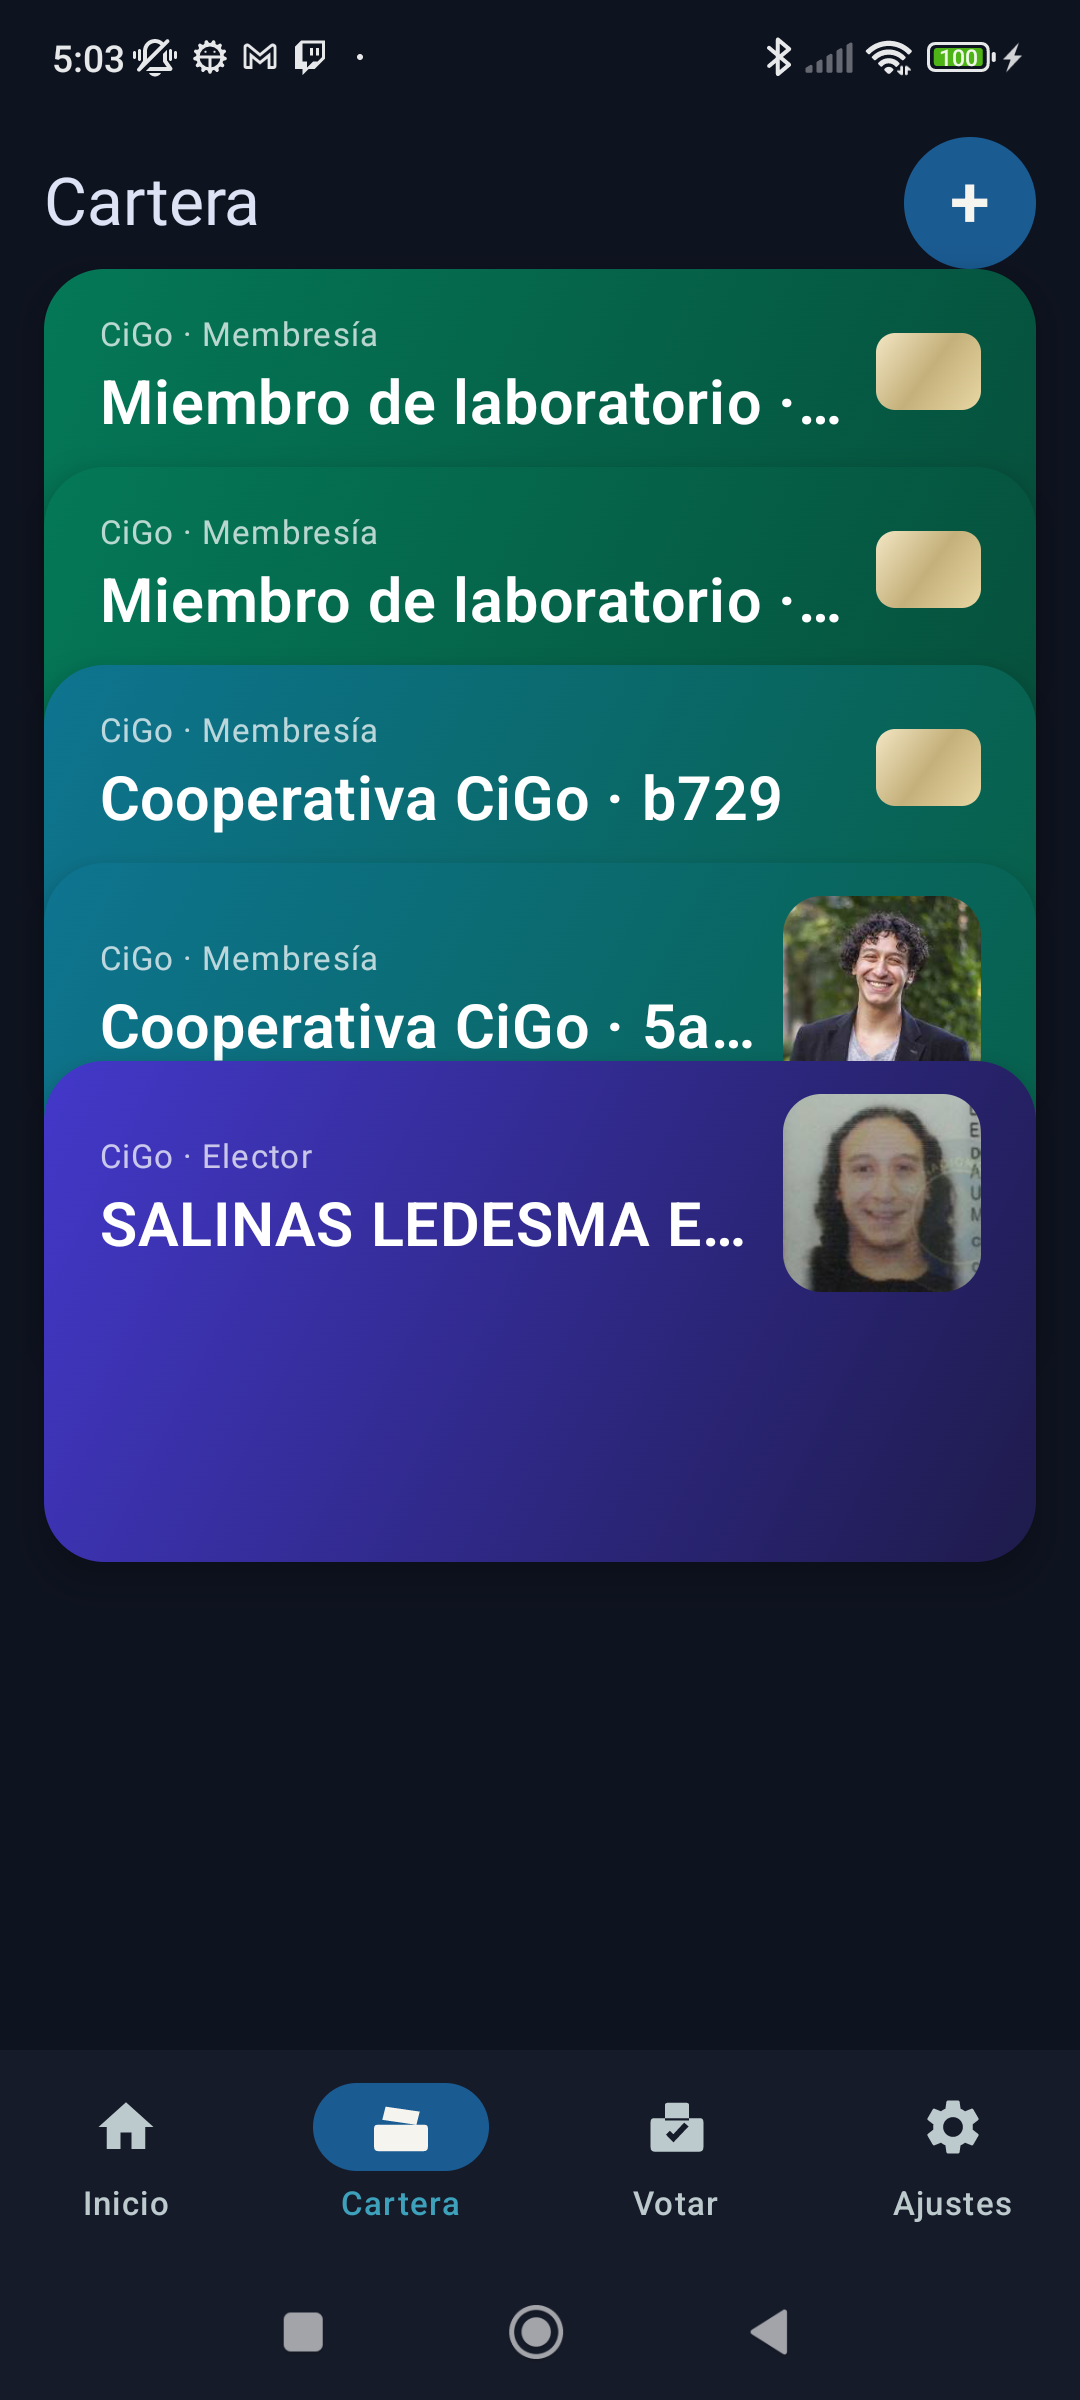
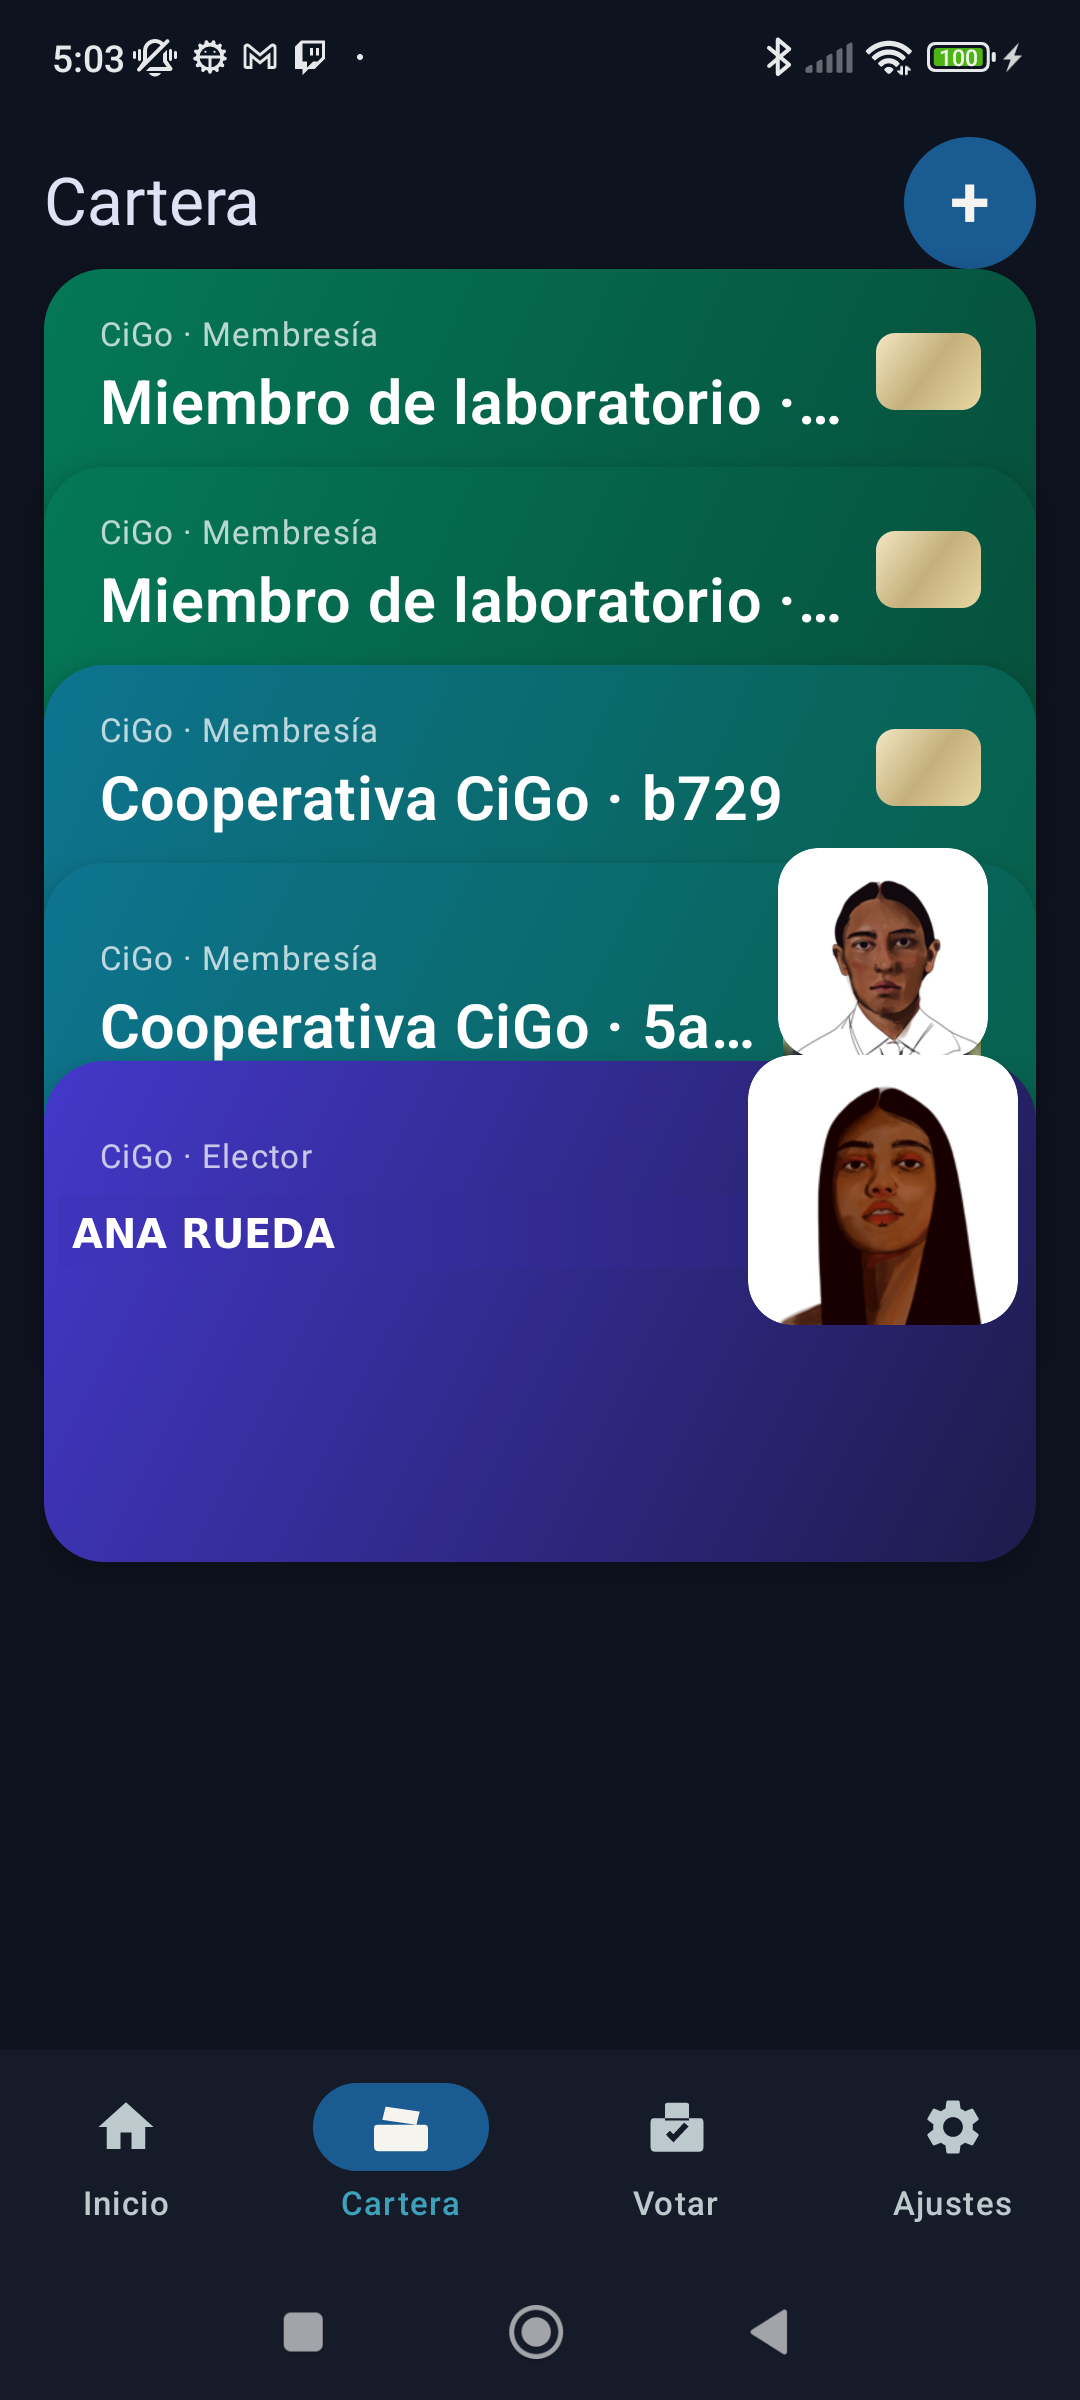
Tapar los datos reales de las capturas del teléfono.
El nombre, la dirección y las fotografías quedan como una identidad de demostración.

Changed region(s): [[0.0611, 0.3438, 0.9472, 0.5625]]

diff --git a/index.html b/index.html
@@ -633,7 +633,7 @@
           </figure>
         </div>
         <h2 style="margin-top:56px;">Así se ve en el teléfono.</h2>
-        <p class="lead">Inicio, cartera y votación de la app en Android.</p>
+        <p class="lead">Inicio, cartera y votación de la app en Android. El nombre, la dirección y las fotografías son de demostración.</p>
         <div class="phones">
           <figure>
             <img src="media/phone/inicio.png" alt="Inicio de CiGo: identidad, saldo y acciones Recibir, Enviar, Verificar y Escanear" />
